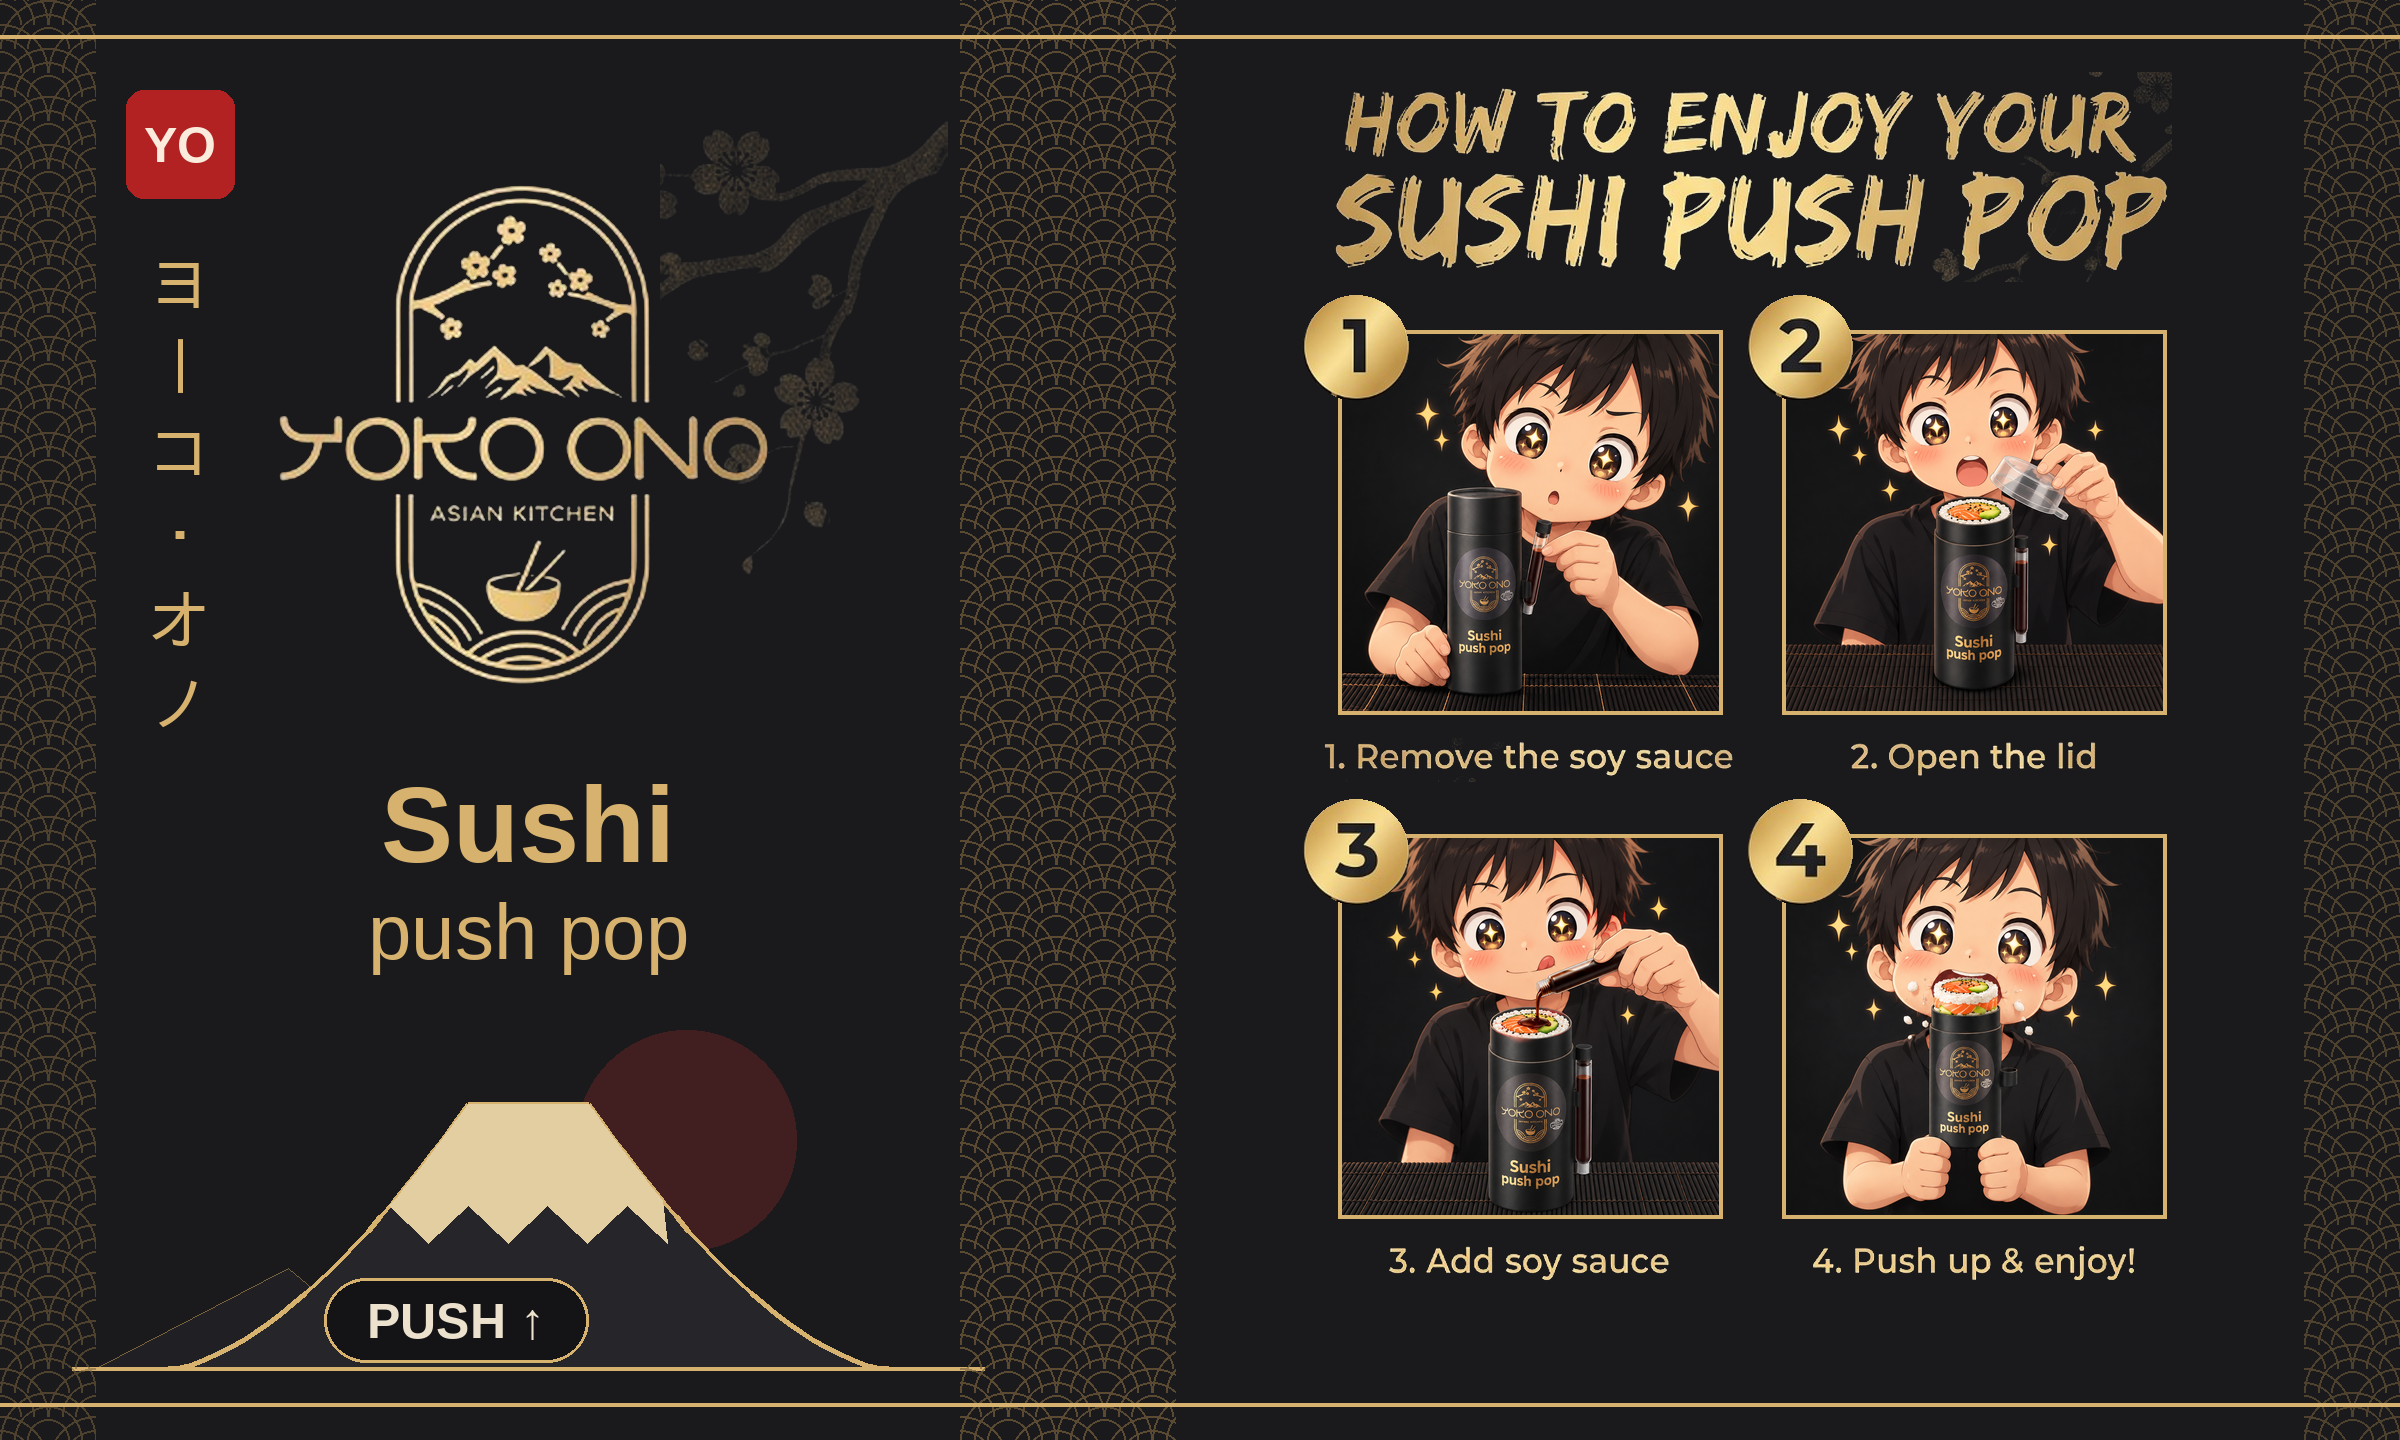
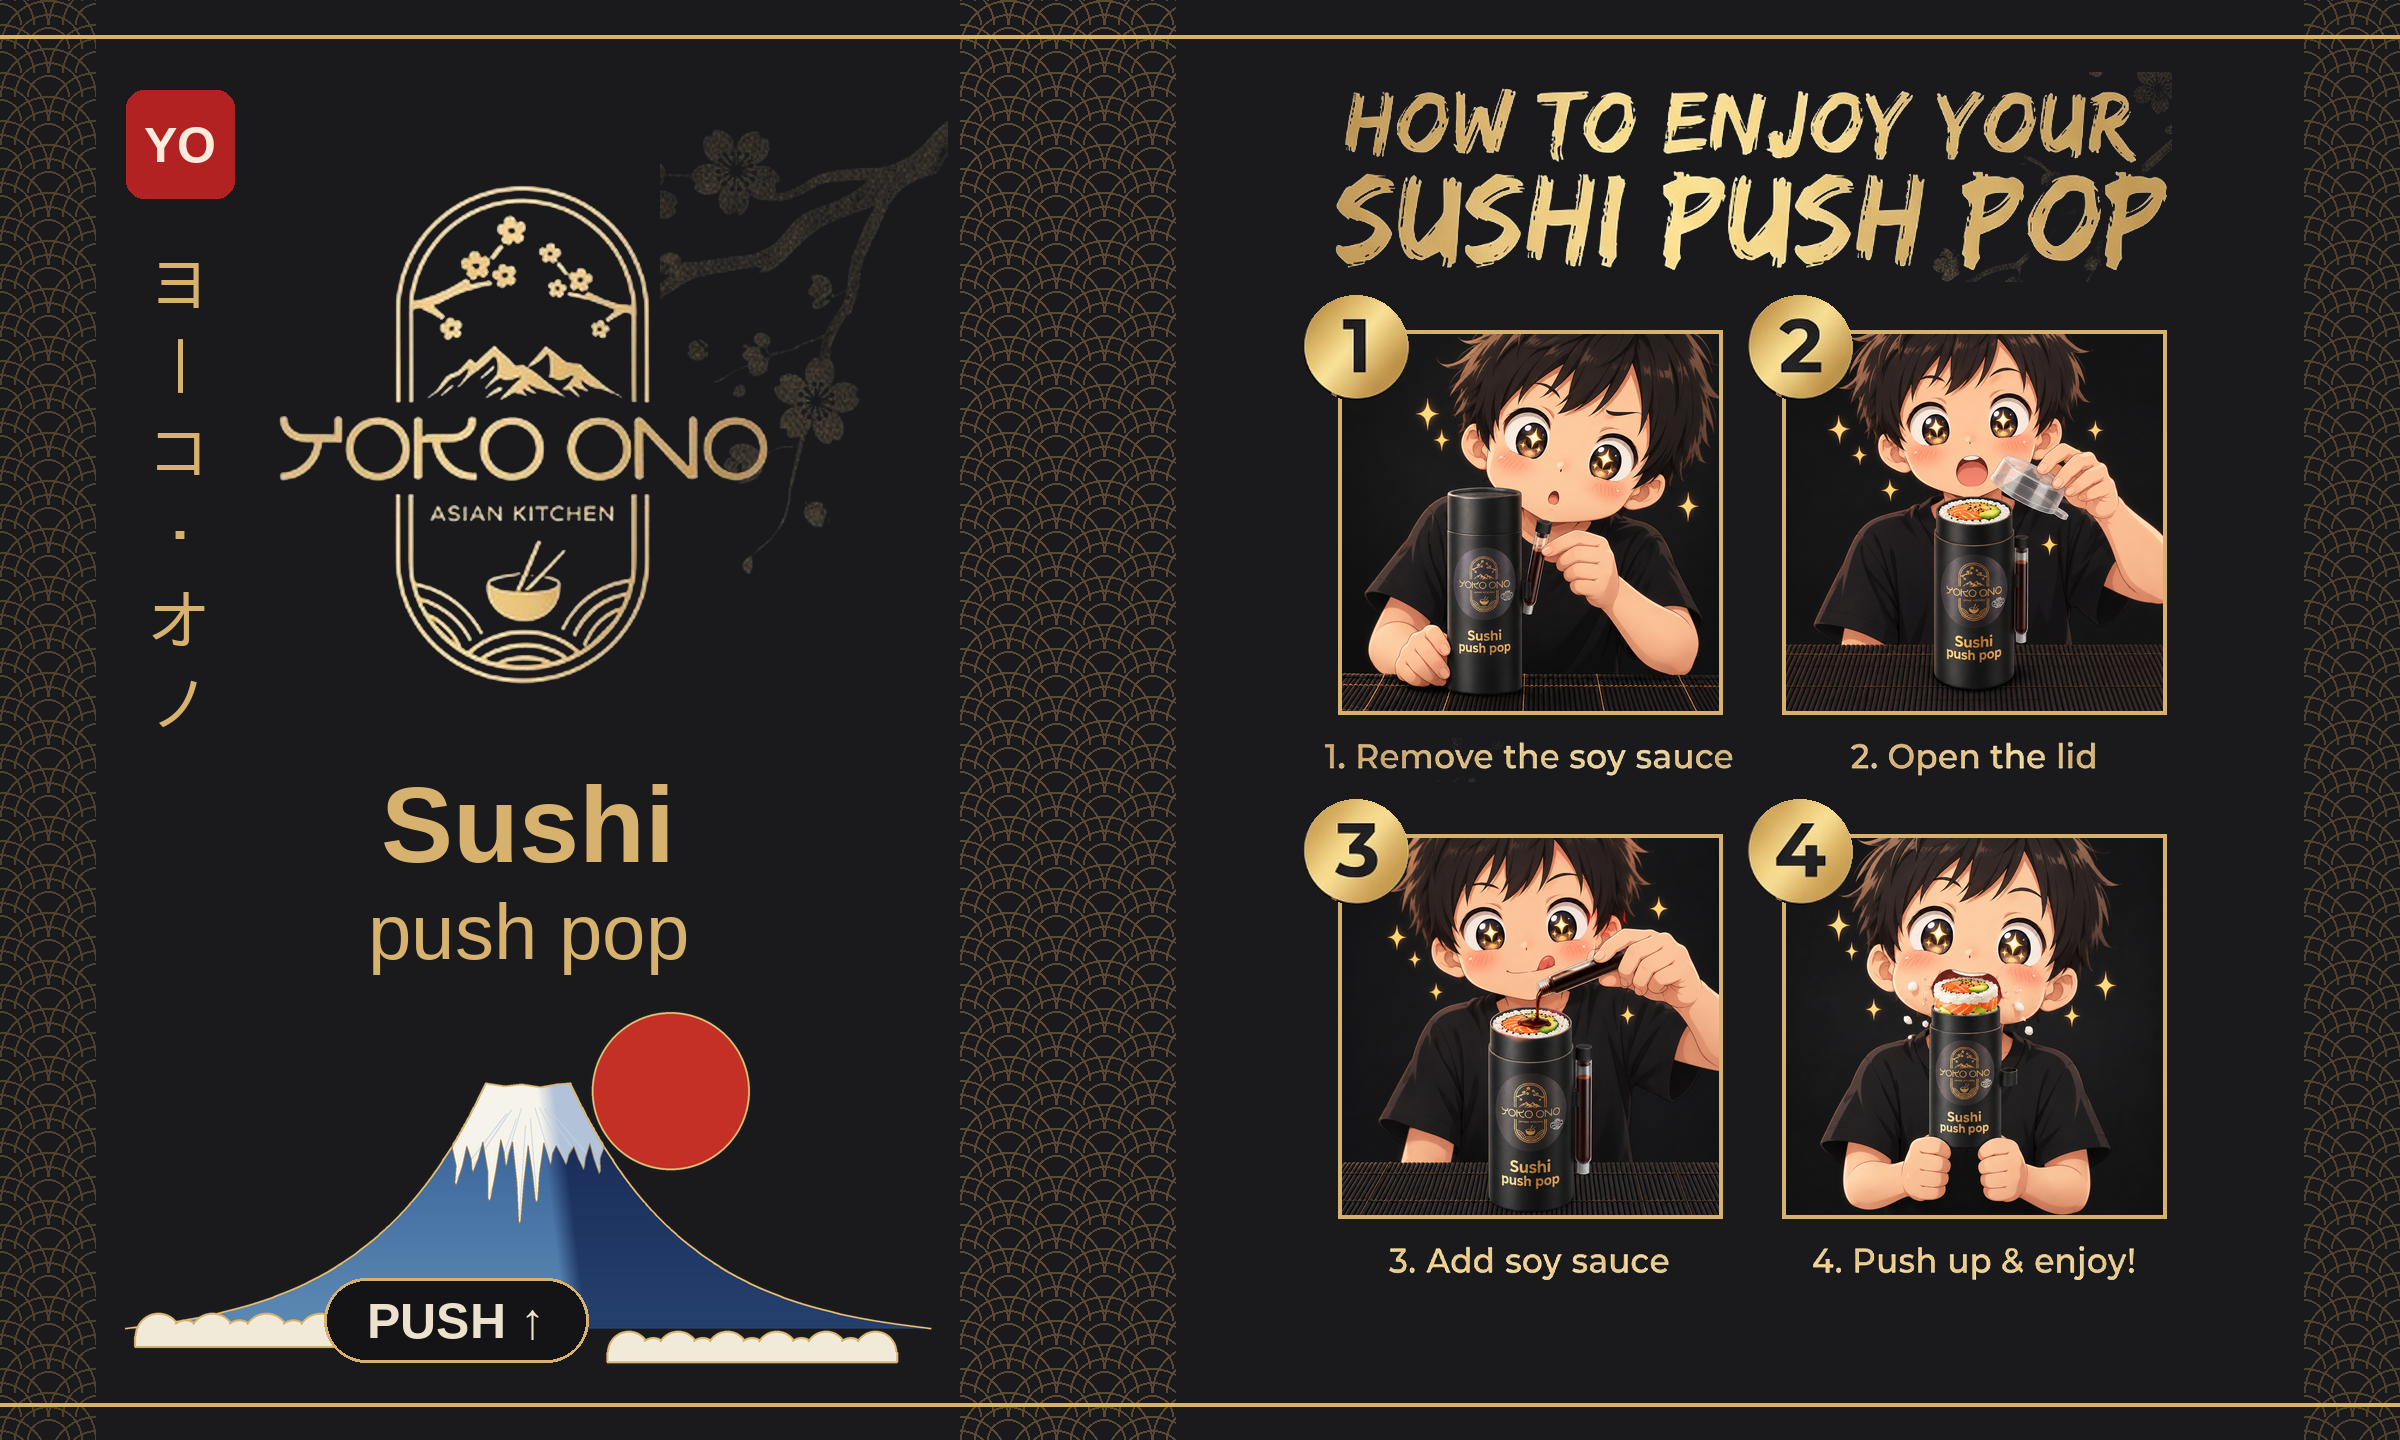
Wrap label: proper ukiyo-e Mount Fuji (flat summit, concave flanks, snow streaks, prussian blue, red sun, clouds)
Claude-Session: https://claude.ai/code/session_01V1tqCne1qoexL69DJjRyCc

Changed region(s): [[0.0312, 0.6875, 0.375, 0.9688]]

diff --git a/sticker/fuji.py b/sticker/fuji.py
@@ -1,0 +1,102 @@
+"""Ukiyo-e style Mount Fuji, rendered locally (supersampled). make_fuji(w,h) -> RGBA"""
+import math, random
+from PIL import Image, ImageDraw, ImageChops, ImageFilter
+GOLD=(214,178,110)
+
+def make_fuji(w, h, seed=11):
+    S=3; W,H=w*S,h*S; rnd=random.Random(seed)
+    img=Image.new('RGBA',(W,H),(0,0,0,0))
+    base=int(H*0.84); peak=int(H*0.22)
+    cx=W//2; half=int(W*0.48); top=int(W*0.05)
+    K=3.0
+    def flank(t): return (1-math.exp(-K*t))/(1-math.exp(-K))
+    def x_at(y,side):
+        f=min(max((y-peak)/(base-peak),0),1)
+        t=-math.log(1-f*(1-math.exp(-K)))/K
+        return cx+side*(top+(half-top)*t)
+    N=120
+    L=[(x_at(peak+(base-peak)*i/N,-1), peak+(base-peak)*i/N) for i in range(N+1)]
+    R=[(x_at(peak+(base-peak)*i/N, 1), peak+(base-peak)*i/N) for i in range(N+1)]
+    rim=[(cx-top,peak),(cx-top*0.55,peak+S*3),(cx-top*0.15,peak+S*1),(cx+top*0.3,peak+S*4),(cx+top*0.7,peak+S*1),(cx+top,peak)]
+    poly=[(int(x),int(y)) for x,y in L[::-1]+rim+R]
+    mask=Image.new('L',(W,H),0); ImageDraw.Draw(mask).polygon(poly,fill=255)
+
+    # rising sun, behind the right shoulder
+    sd=ImageDraw.Draw(img); sr=int(H*0.20); sx,sy=cx+int(W*0.17),int(H*0.24)
+    sd.ellipse((sx-sr,sy-sr,sx+sr,sy+sr),fill=(196,48,38,255))
+    sd.ellipse((sx-sr,sy-sr,sx+sr,sy+sr),outline=GOLD+(255,),width=S*2)
+
+    # body: prussian-blue gradient, lit left / shaded right with soft diagonal terminator
+    body=Image.new('RGBA',(W,H)); bp=body.load()
+    for y in range(peak,base+1):
+        f=(y-peak)/(base-peak)
+        lit=(52+int(40*f),92+int(46*f),150+int(30*f)); shd=(22+int(16*f),40+int(24*f),84+int(26*f))
+        term=cx+top*0.2+(y-peak)*0.12
+        xl,xr=int(x_at(y,-1))-2,int(x_at(y,1))+2
+        for x in range(max(0,xl),min(W,xr+1)):
+            m=min(1,max(0,(x-term)/(W*0.025)))
+            bp[x,y]=tuple(int(lit[i]*(1-m)+shd[i]*m) for i in range(3))+(255,)
+    body.putalpha(mask); img.alpha_composite(body)
+
+    # snow: long irregular fingers reaching down the slopes
+    cap=peak+(base-peak)*0.26
+    xl,xr=x_at(cap,-1),x_at(cap,1); n=10
+    cuts=[0]+[ (i+rnd.uniform(-0.25,0.25))/n for i in range(1,n)]+[1]
+    edge=[]; tips=[]
+    for a,b in zip(cuts[:-1],cuts[1:]):
+        xa=xl+(xr-xl)*a; xb=xl+(xr-xl)*b; xm=(xa+xb)/2
+        depth=rnd.uniform(0.08,0.34)*(1-0.5*abs((a+b)/2-0.5)*2)
+        yt=cap+(base-peak)*depth; xt=xm+(xm-cx)*depth*0.3
+        wv=(xb-xa)*0.22
+        y0=cap-(base-peak)*rnd.uniform(0,0.03)
+        edge+= [(xa,y0),(xm-wv,(y0+yt)/2),(xt-wv*0.35,yt-(base-peak)*0.012),(xt,yt),(xt+wv*0.35,yt-(base-peak)*0.012),(xm+wv,(y0+yt)/2)]
+        tips.append((xt,yt))
+    edge.append((xr,cap))
+    capL=[(x_at(y,-1),y) for y in [cap-(cap-peak)*k/30 for k in range(31)]]
+    capR=[(x_at(y, 1),y) for y in [peak+(cap-peak)*k/30 for k in range(31)]]
+    snowP=[(int(x),int(y)) for x,y in rim+capR+edge[::-1]+capL]
+    smask=Image.new('L',(W,H),0); ImageDraw.Draw(smask).polygon(snowP,fill=255)
+    smask=ImageChops.multiply(smask,mask)
+    snow=Image.new('RGBA',(W,H)); sp=snow.load()
+    for y in range(peak,int(base)):
+        term=cx+top*0.2+(y-peak)*0.12
+        for x in range(int(x_at(y,-1))-2,int(x_at(y,1))+3):
+            if 0<=x<W:
+                m=min(1,max(0,(x-term)/(W*0.02)))
+                a=(246,243,234); b=(178,194,216)
+                sp[x,y]=tuple(int(a[i]*(1-m)+b[i]*m) for i in range(3))+(255,)
+    snow.putalpha(smask); img.alpha_composite(snow)
+    # thin ridge lines in the snow
+    ld=ImageDraw.Draw(img)
+    rl=Image.new('RGBA',(W,H),(0,0,0,0)); rd=ImageDraw.Draw(rl)
+    for x,y in tips:
+        rd.line((int(x),int(y)-S*6,int(cx+(x-cx)*0.3),int(peak+(y-peak)*0.3)),fill=(196,208,226,200),width=S)
+    rl.putalpha(ImageChops.multiply(rl.getchannel('A'),smask)); img.alpha_composite(rl)
+
+    # gold outlines
+    ld.line(poly,fill=GOLD+(255,),width=S*2,joint='curve')
+    ld.line([(int(x),int(y)) for x,y in edge],fill=GOLD+(170,),width=S)
+
+    # scalloped ukiyo-e clouds at the foot
+    def cloud(x0,x1,y,r):
+        c=Image.new('RGBA',(W,H),(0,0,0,0)); cd=ImageDraw.Draw(c)
+        xs=[]; k=0; x=x0
+        while x<=x1:
+            xs.append((x,int(r*(1.0 if k%2==0 else 0.72)))); x+=int(r*1.15); k+=1
+        for x,rr in xs:
+            cd.ellipse((x-rr,y-rr,x+rr,y+rr),fill=(242,234,216,255),outline=GOLD+(255,),width=S*2)
+        for x,rr in xs:   # erase inner outline overlap
+            cd.ellipse((x-rr+S*3,y-rr+S*3,x+rr-S*3,y+rr-S*3),fill=(242,234,216,255))
+        bot=y+int(r*0.45)
+        cd.rectangle((xs[0][0]-xs[0][1],y,xs[-1][0]+xs[-1][1],bot),fill=(242,234,216,255))
+        cd.rectangle((0,bot,W,H),fill=(0,0,0,0))
+        cd.line((xs[0][0]-xs[0][1],bot,xs[-1][0]+xs[-1][1],bot),fill=GOLD+(255,),width=S*2)
+        cd.line((xs[0][0]-xs[0][1],y,xs[0][0]-xs[0][1],bot),fill=GOLD+(255,),width=S*2)
+        cd.line((xs[-1][0]+xs[-1][1],y,xs[-1][0]+xs[-1][1],bot),fill=GOLD+(255,),width=S*2)
+        img.alpha_composite(c)
+    cloud(int(W*0.06),int(W*0.36),int(H*0.86),int(H*0.06))
+    cloud(int(W*0.62),int(W*0.94),int(H*0.90),int(H*0.055))
+    return img.resize((w,h),Image.LANCZOS)
+
+if __name__=='__main__':
+    bg=Image.new('RGBA',(1600,900),(26,26,28,255)); bg.alpha_composite(make_fuji(1600,900)); bg.save('fuji_test.png')

diff --git a/sticker/wrap_v1.py b/sticker/wrap_v1.py
@@ -64,7 +64,8 @@ def fuji(cx,base_y,w,h):
     # gold ground line + seigaiha water at the foot
     ld.line((cx-w//2-mm(8),base_y,cx+w//2+mm(8),base_y),fill=GOLD+(255,),width=4)
     im.paste(lay,(0,0),lay)
-fuji((mm(8)+mm(80))//2, H-mm(6), mm(60), mm(22))
+from fuji import make_fuji
+_f=make_fuji(mm(70),mm(33)); im.paste(_f,((mm(8)+mm(80))//2-_f.width//2, H-mm(4)-_f.height), _f)
 
 # ---- background pattern zones: seams + transition
 seigaiha((0,0,mm(8),H),mm(4),GOLD_D+(140,))
